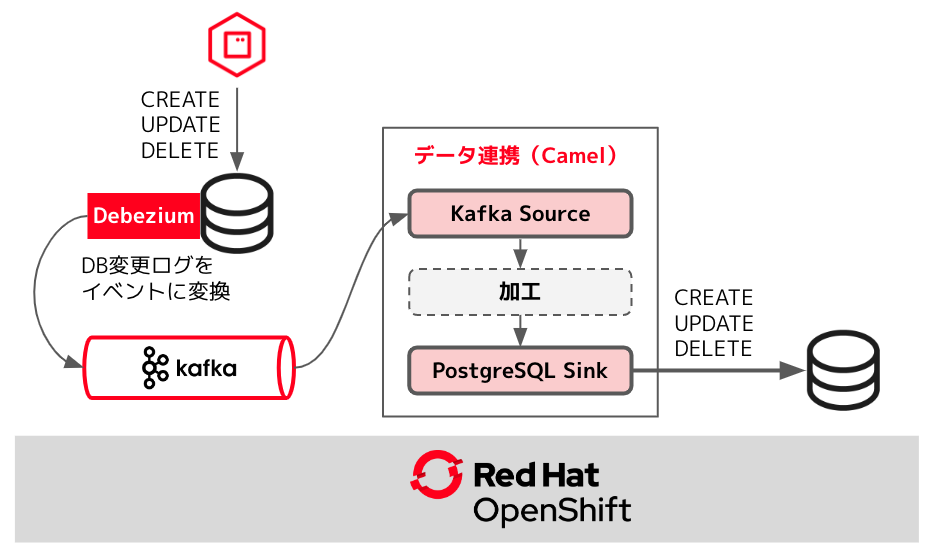
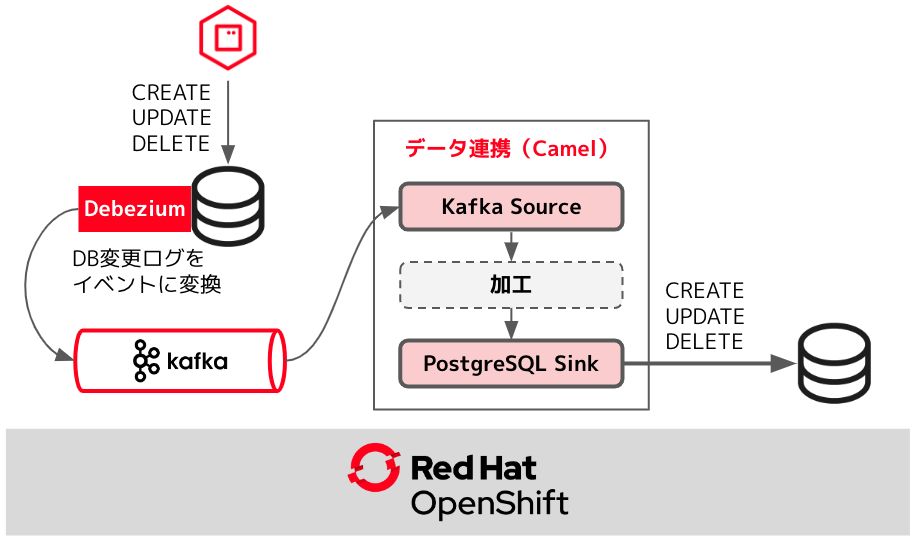
updates

diff --git a/db-sync.md b/db-sync.md
@@ -6,11 +6,28 @@
 **Camel/Kafka/Debezium** を使用して、データベース間の同期を行う仕組みを構築します。
 
 ![](images/11-dbsync-001.png)
-![karavan]({% image_path 11-dbsync-001.png %}){:width="800px"}
+![karavan]({% image_path 11-dbsync-001.png %}){:width="600px"}
 
 #### Debezium について
 
+[Debezium](https://debezium.io/){:target="_blank"} は **Kafka Connect** の仕組みを使用したチェンジデータキャプチャの基盤となる製品です。
+データベースに発生した更新イベントをキャプチャして、その更新イベントを **Kafka** のトピックにメッセージとして送信することによって、
+その変更内容を **Kafka** に接続している他のシステムに、ニアリアルタイムに連携させることができるようになります。
+
+![](images/11-dbsync-002.png)
+![karavan]({% image_path 11-dbsync-002.png %}){:width="1200px"}
+
 #### AtlasMap について
+
+[AtlasMap](https://debezium.io/){:target="_blank"} データマッピングソリューションです。
+データマッピングというのは、あるサービスと別のサービス（またはデータベースなど）を接続するときに、どの項目をどの項目に移送するのか、または編集を施すのか、といった作業のことです。
+AtlasMap Data Mapper UI キャンバスを使用してデータ マッピングを設計し、ランタイム エンジンを介してそのデータ マッピングを実行することができます。
+[camel-atlasmap](https://camel.apache.org/components/{{ CAMEL_VERSION }}/atlasmap-component.html){:target="_blank"} コンポーネントを使用して、Apache Camel ルートの一部としてデータ マッピングを実行することもできます。
+
+![](images/11-dbsync-003.png)
+![karavan]({% image_path 11-dbsync-003.png %}){:width="1200px"}
+
+※ 現時点においては、**camel-atlasmap** は Red Hatのサポートではなく、コミュニティサポートです。
 
 #### このセクションで作成する内容
 
